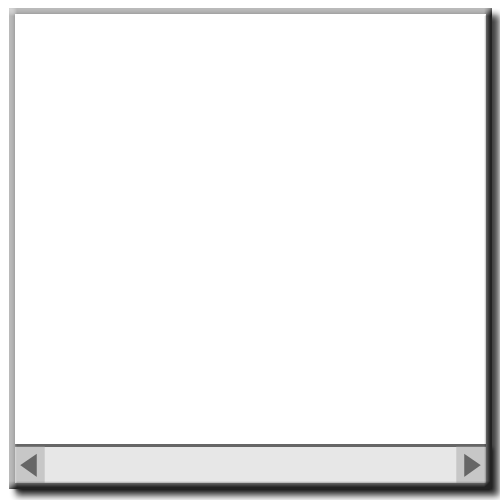
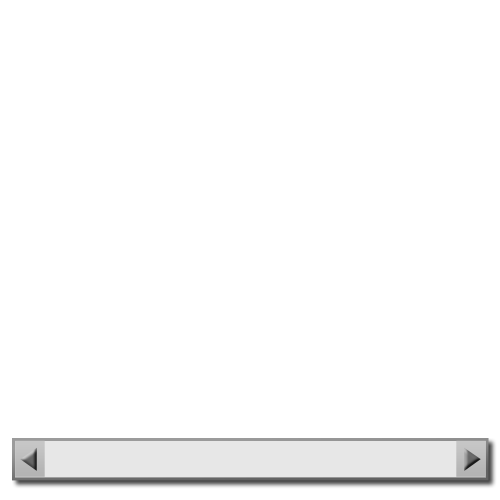
new scrollbar image

Changed region(s): [[0.0, 0.0, 1.0, 1.0]]

diff --git a/Scrolling/Bar.cs b/Scrolling/Bar.cs
@@ -12,7 +12,7 @@ namespace SmoothPursuit.Scrolling
         private const uint VOLUME = 8;          // 1..16
 
         private const int SLIDER_X = 44;
-        private const int SLIDER_Y = 447;
+        private const int SLIDER_Y = 441;
         private const int SLIDER_WIDTH = 411;
         private const int SLIDER_HEIGHT = 36;
 
